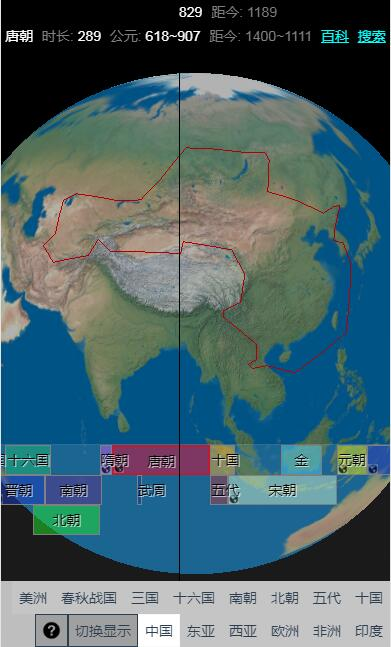
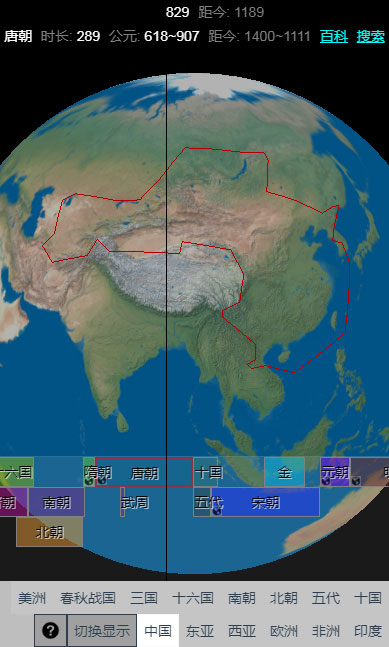
a

diff --git a/src/components/timeline.vue b/src/components/timeline.vue
@@ -412,8 +412,8 @@ export default {
   .component .menu .item{background: rgb(160,160,160);border: solid 1px;padding:6px 6px;cursor: pointer;height: 19px;}
   .component .menu .item.act{background: white;}
   .component .global .period{position: absolute;top: 0;box-sizing: border-box;border: solid 1px gray;color:black;text-shadow:rgb(255, 255, 255) 1px 1px 0px;word-break: keep-all;}
-  .component .global .period .name{position: relative;z-index: 1;}
-  .component .global .period .map_icon{position: absolute;left:0;bottom:0;width:10px;height: 10px;pointer-events: none;opacity: .7;background: rgba(255,255,255,.3);z-index: 2;}
+  .component .global .period .name{}
+  .component .global .period .map_icon{position: absolute;left:0;bottom:0;width:10px;height: 10px;pointer-events: none;opacity: .7;background: rgba(255,255,255,.3);}
   .component .global .period.act{border-color:red;border-width: 2px;}
   .component .detail>*{padding:2px;}
 
